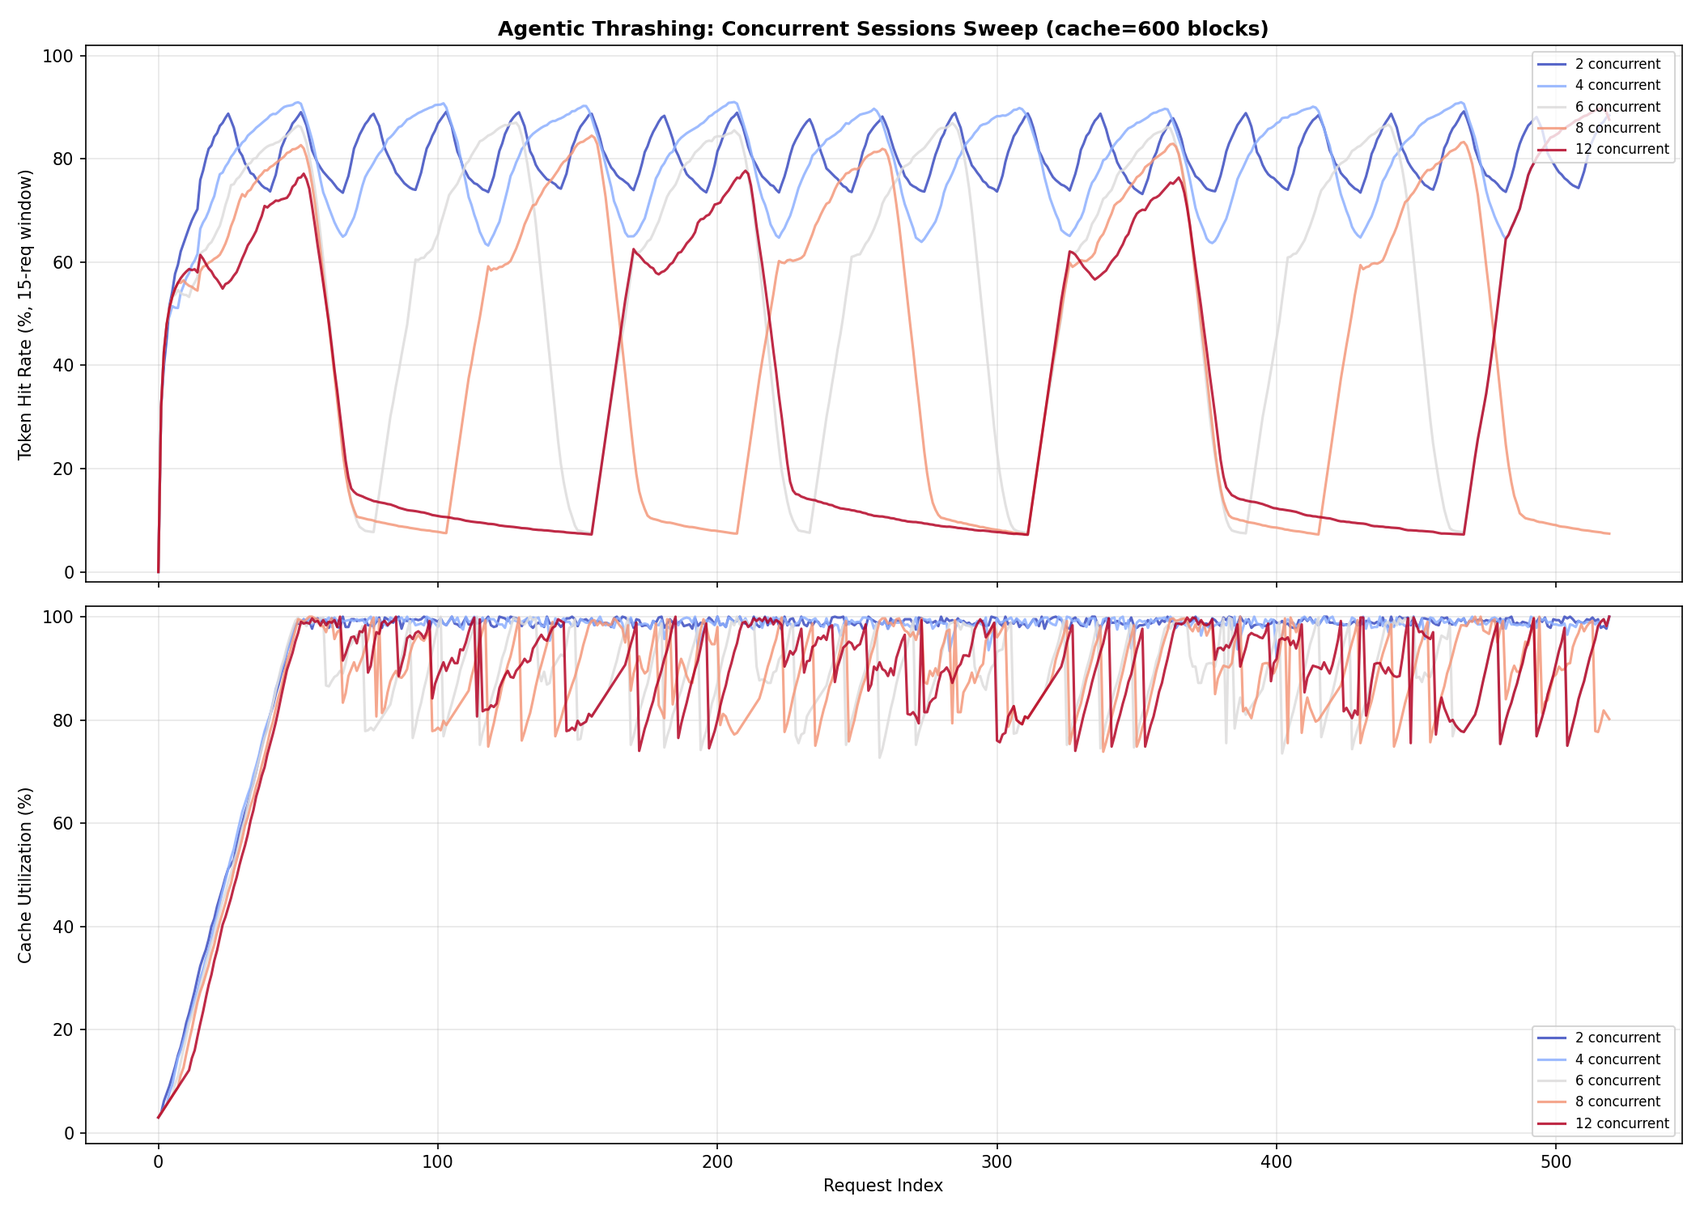
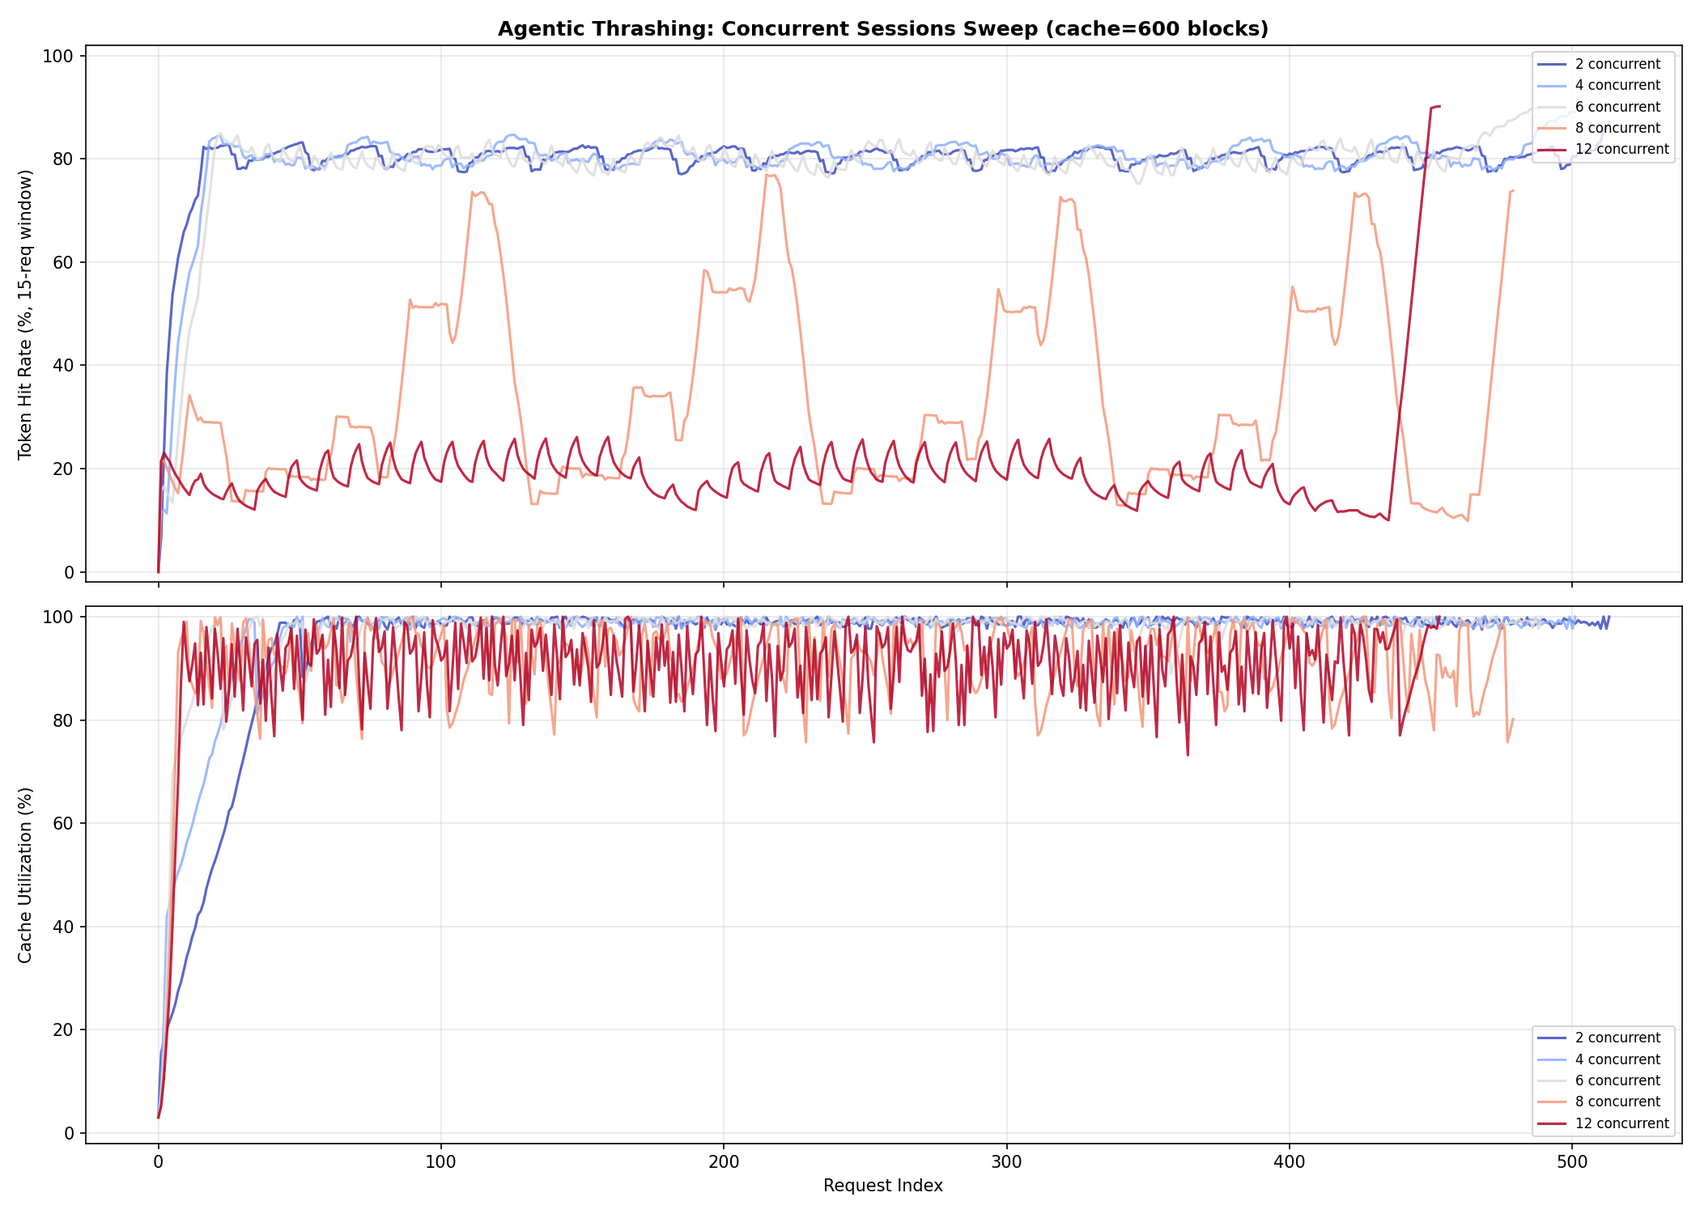
Stagger session arrivals for sustained thrashing (no sawtooth recovery)
- Initial sessions start at different steps (evenly spread across lifecycle)
- Completed sessions immediately replaced at step 0 (pool stays full)
- Working set estimate now computed from actual active session states
- Result: overcommitted configs thrash for entire simulation with no recovery
  - 12 conc / 400 blk: 18% hit rate across all 454 requests (was periodic)
  - 6 conc / 400 blk: 25% sustained (was sawtooth between 15-60%)
- Updated report with new findings (Finding 3: stagger makes it worse)

https://claude.ai/code/session_01XdsCWUEKJ49NkbzHr8UyLX

diff --git a/experiments/experiment_thrashing.py b/experiments/experiment_thrashing.py
@@ -111,14 +111,21 @@ def generate_agentic_requests(
     steps_per_session: int,
     concurrent_sessions: int,
     seed: int = SEED,
+    stagger: bool = True,
 ) -> List[Tuple[Request, Tuple[int, ...]]]:
     """Generate requests modeling interleaved agentic inference.
 
     Returns a list of (Request, token_ids) pairs in arrival order.
-    Concurrent sessions are interleaved round-robin: each "tick" advances
-    one step in each active session, modeling parallel agent execution.
 
-    When a session completes, a new one starts in its slot (if any remain).
+    If stagger=True (default), initial sessions start at different steps
+    to model a system that has been running for a while. This avoids the
+    unrealistic synchronized-generation artifact where all N sessions
+    start and end together, creating repeating sawtooth patterns instead
+    of sustained thrashing.
+
+    When a session completes, a new one immediately takes its slot at
+    step 0, so the pool stays full and sessions are always at mixed
+    stages of their lifecycle.
     """
     rng = random.Random(seed)
     system_tokens = _make_system_prompt_tokens()
@@ -143,16 +150,29 @@ def generate_agentic_requests(
     next_session_id = 0
     time_tick = 0.0
 
-    def _fill_active():
+    def _take_session() -> Optional[int]:
         nonlocal next_session_id
-        while len(active) < concurrent_sessions and next_session_id < num_sessions:
-            active.append((next_session_id, 0))
+        if next_session_id < num_sessions:
+            sid = next_session_id
             next_session_id += 1
+            return sid
+        return None
 
-    _fill_active()
+    # Initial fill: stagger starting steps so sessions are at different
+    # points in their lifecycle (models a system already under load)
+    for slot in range(concurrent_sessions):
+        sid = _take_session()
+        if sid is None:
+            break
+        if stagger:
+            # Spread initial sessions evenly across their lifecycle
+            initial_step = (slot * steps_per_session) // concurrent_sessions
+        else:
+            initial_step = 0
+        active.append((sid, initial_step))
 
     while active:
-        # Each tick: advance one step in each active session (round-robin)
+        # Each tick: advance one step in each active session
         next_active = []
         for sid, step in active:
             token_ids = session_contexts[sid][step]
@@ -164,16 +184,19 @@ def generate_agentic_requests(
                 num_decode_tokens=DECODE_TOKENS,
             )
             requests.append((req, token_ids))
-            time_tick += 0.05  # small time gap between requests in same tick
+            time_tick += 0.05
 
             next_step = step + 1
             if next_step <= steps_per_session:
                 next_active.append((sid, next_step))
-            # else: session is done, slot opens up
+            else:
+                # Session done — immediately replace with a new one at step 0
+                new_sid = _take_session()
+                if new_sid is not None:
+                    next_active.append((new_sid, 0))
 
         active = next_active
-        _fill_active()
-        time_tick += 0.5  # gap between ticks (models tool execution time)
+        time_tick += 0.5
 
     return requests
 
@@ -210,6 +233,7 @@ def simulate_thrashing(
     cache_max_blocks: int,
     num_sessions: int = NUM_SESSIONS,
     steps_per_session: int = STEPS_PER_SESSION,
+    stagger: bool = True,
 ) -> List[StepTrace]:
     """Run a single thrashing simulation."""
     requests = generate_agentic_requests(
@@ -217,33 +241,34 @@ def simulate_thrashing(
         steps_per_session=steps_per_session,
         concurrent_sessions=concurrent_sessions,
         seed=SEED,
+        stagger=stagger,
     )
 
     cache = PrefixCacheManager(max_blocks=cache_max_blocks, block_size=BLOCK_SIZE)
     traces = []
 
-    # Track which session each request belongs to
-    session_step_counter: Dict[int, int] = {}
-    session_assignment: List[Tuple[int, int]] = []  # (session_id, step_within)
-
-    # Reconstruct session/step from arrival order
-    active_slots: List[Optional[int]] = [None] * concurrent_sessions
-    next_sid = 0
-    slot_steps: Dict[int, int] = {}  # slot -> current step
-    req_idx = 0
-
     # Re-derive session assignments by replaying the interleaving logic
-    rng = random.Random(SEED)
     active2: List[Tuple[int, int]] = []
     next2 = 0
 
-    def _fill2():
+    def _take2() -> Optional[int]:
         nonlocal next2
-        while len(active2) < concurrent_sessions and next2 < num_sessions:
-            active2.append((next2, 0))
+        if next2 < num_sessions:
+            sid = next2
             next2 += 1
+            return sid
+        return None
 
-    _fill2()
+    for slot in range(concurrent_sessions):
+        sid = _take2()
+        if sid is None:
+            break
+        if stagger:
+            initial_step = (slot * steps_per_session) // concurrent_sessions
+        else:
+            initial_step = 0
+        active2.append((sid, initial_step))
+
     assignment_list = []
     while active2:
         next_active2 = []
@@ -251,8 +276,11 @@ def simulate_thrashing(
             assignment_list.append((sid, step))
             if step + 1 <= steps_per_session:
                 next_active2.append((sid, step + 1))
+            else:
+                new_sid = _take2()
+                if new_sid is not None:
+                    next_active2.append((new_sid, 0))
         active2 = next_active2
-        _fill2()
 
     for i, ((req, token_ids), (sid, step)) in enumerate(zip(requests, assignment_list)):
         evictions_before = cache.stats.total_evictions
@@ -271,9 +299,15 @@ def simulate_thrashing(
         stats = cache.stats
         hit_frac = cached_tokens / len(token_ids) if token_ids else 0.0
 
-        # Estimate working set: concurrent_sessions * avg context size at this point
-        avg_context = SYSTEM_PROMPT_TOKENS + TASK_PROMPT_TOKENS + step * TOKENS_PER_STEP
-        ws_blocks = concurrent_sessions * math.ceil(avg_context / BLOCK_SIZE)
+        # Estimate working set from actual active sessions at this point
+        # Look at nearby requests (same tick) to get all active session states
+        tick_start = max(0, i - (i % concurrent_sessions))
+        tick_end = min(len(assignment_list), tick_start + concurrent_sessions)
+        ws_blocks = 0
+        for j in range(tick_start, tick_end):
+            _, s = assignment_list[j]
+            ctx = SYSTEM_PROMPT_TOKENS + TASK_PROMPT_TOKENS + s * TOKENS_PER_STEP
+            ws_blocks += math.ceil(ctx / BLOCK_SIZE)
 
         traces.append(StepTrace(
             request_idx=i,
@@ -554,12 +588,12 @@ def main():
 
     # ── 1. Detailed single-config analysis ───────────────────────────────
     print(f"\n{'─'*70}")
-    print("  DETAILED ANALYSIS: 6 concurrent, 600-block cache")
+    print("  DETAILED ANALYSIS: 6 concurrent, 600-block cache (staggered)")
     print(f"{'─'*70}")
 
     traces_detail = simulate_thrashing(concurrent_sessions=6, cache_max_blocks=600)
     plot_thrashing_phases(traces_detail,
-                         label="6 concurrent sessions, 600-block cache",
+                         label="6 concurrent, 600 blocks (staggered arrivals)",
                          filename="thrashing_detail.png")
     print_thrashing_analysis(traces_detail, "6 concurrent, 600 blocks")
 
@@ -584,12 +618,12 @@ def main():
     # Detailed plots for extreme cases
     plot_thrashing_phases(
         all_results[(12, 400)],
-        label="12 concurrent, 400-block cache (severe thrashing)",
+        label="12 concurrent, 400 blocks (severe thrashing)",
         filename="thrashing_severe.png")
 
     plot_thrashing_phases(
         all_results[(2, 1200)],
-        label="2 concurrent, 1200-block cache (no thrashing)",
+        label="2 concurrent, 1200 blocks (no thrashing)",
         filename="thrashing_none.png")
 
     # ── 4. Full characterization ─────────────────────────────────────────

diff --git a/reports/THRASHING_REPORT.md b/reports/THRASHING_REPORT.md
@@ -20,7 +20,7 @@ Step 12: [...]                                                               →
 
 Each step shares the full prefix of all prior steps. With **N concurrent agent sessions**, the aggregate working set grows until it exceeds cache capacity. At that point, inserting new blocks for session A evicts blocks belonging to session B — but session B needs exactly those blocks on its very next step. This creates a destructive cycle of **evict → insert → evict** that we call **mid-phase thrashing**.
 
-The key insight is that **cache utilization stays high (~90%) while hit rate drops sharply** — the cache is full, but full of the wrong data. Standard utilization metrics mask the problem entirely.
+The key insight is that **cache utilization stays high (~85-98%) while hit rate drops sharply** — the cache is full, but full of the wrong data. Standard utilization metrics mask the problem entirely.
 
 ---
 
@@ -35,61 +35,60 @@ The key insight is that **cache utilization stays high (~90%) while hit rate dro
 | Tokens per step | ~200 (thought: 60, tool call: 30, tool result: ~110) | Models typical tool-use output |
 | Steps per session | 12 | Realistic agentic loop |
 | Max context at completion | 2700 tokens = 169 blocks | Upper bound per session |
-| Total sessions | 40 | Enough to observe all three phases |
+| Total sessions | 40 | Enough to observe sustained thrashing |
 | Block size | 16 tokens | |
 
-### Interleaving Model
+### Staggered Arrival Model
 
-Concurrent sessions are interleaved round-robin: each "tick" advances one step in every active session, modeling parallel agent execution on a shared GPU. When a session completes its 12 steps, a new session takes its slot.
+Sessions are **staggered**: the initial N concurrent sessions start at different points in their lifecycle (evenly spread across steps 0..12), modeling a system that has been running under load. When a session completes, a new one immediately takes its slot at step 0. This keeps the pool permanently full with sessions at mixed stages — no synchronized generations, no artificial recovery gaps.
+
+This is more realistic than batch-synchronized arrivals, which produce a repeating sawtooth pattern as entire generations start and finish together. In production, sessions arrive and depart continuously.
 
 ### Sweep Parameters
 
 - **Concurrent sessions:** 2, 4, 6, 8, 12
 - **Cache sizes:** 200, 400, 600, 800, 1200 blocks
 
-The critical ratio is **working set / cache capacity**. A single session at max length requires 169 blocks, so 8 concurrent sessions need ~1352 blocks. When the cache holds fewer blocks than the working set demands, thrashing begins.
+The critical ratio is **working set / cache capacity**. A single session at max length requires 169 blocks, so 8 concurrent sessions need ~1352 blocks. When the cache holds fewer blocks than the working set demands, thrashing begins — and with staggered arrivals, it persists for the entire simulation.
 
 ---
 
 ## 3. Results
 
-### 3.1 The Three Phases
+### 3.1 Sustained Thrashing
 
-The 6-concurrent / 600-block configuration cleanly demonstrates all three phases:
-
-![Thrashing Detail](../report_figures/kv_cache/thrashing_detail.png)
-
-| Phase | Request Range | Token Hit Rate | Cache Utilization | Evictions/req |
-|-------|:---:|:---:|:---:|:---:|
-| **Warmup** | 0–41 | 71.5% | 40% | 0 |
-| **Thrashing** | 42–77 | **36.2%** | **92%** | 92.5 |
-| **Settling** | 78–519 | 58.5% | 89% | 45.0 |
-
-**Warmup** (requests 0–41): The cache is filling up. Each session's first step is a cold miss, but subsequent steps reuse the growing prefix from prior steps. No evictions occur because the cache has room.
-
-**Thrashing** (requests 42–77): The aggregate working set of 6 sessions crosses the 600-block capacity. Every new step from one session evicts blocks belonging to another. Evictions spike to ~92 blocks/request while hit rate drops to 36%. The cache stays 92% full — it's churning, not empty.
-
-**Settling** (requests 78+): As sessions complete and leave the cache, eviction pressure decreases. Hit rate partially recovers but remains depressed because new sessions keep entering.
-
-### 3.2 Severity Scales with Overcommit Ratio
-
-Comparing the severe case (12 concurrent, 400 blocks) against no-thrashing (2 concurrent, 1200 blocks):
-
-**Severe thrashing (working set / cache = 5.1×):**
+With staggered arrivals, overcommitted configurations enter thrashing immediately and **never recover**. The 12-concurrent / 400-block case (5.1× overcommit) thrashes for all 454 requests:
 
 ![Severe Thrashing](../report_figures/kv_cache/thrashing_severe.png)
 
-**No thrashing (working set / cache = 0.3×):**
+| Config | Phase | Requests | Token Hit Rate | Cache Util | Evictions/req |
+|--------|-------|:---:|:---:|:---:|:---:|
+| 12 conc, 400 blk | **Thrashing** | 0–453 | **18.4%** | **83%** | 83.5 |
+| 8 conc, 400 blk | **Thrashing** | 0–479 | **19.0%** | **85%** | 81.7 |
+| 6 conc, 400 blk | **Thrashing** | 0–489 | **25.5%** | **87%** | 74.6 |
+| 12 conc, 800 blk | **Thrashing** | 0–453 | **24.0%** | **93%** | 75.8 |
+
+In every case: high utilization, high eviction rate, low hit rate — the full simulation is one sustained thrashing phase with no recovery.
+
+### 3.2 No Thrashing (Working Set Fits)
+
+When the working set fits in the cache, the pattern is completely different:
 
 ![No Thrashing](../report_figures/kv_cache/thrashing_none.png)
 
-Under severe thrashing, the token hit rate collapses to **18%** mid-phase with 91 blocks evicted per request — nearly every cache entry is replaced on every step. Without thrashing, the hit rate reaches **80%** with steady, low-volume evictions.
+| Config | Token Hit Rate | Cache Util | Evictions/req |
+|--------|:---:|:---:|:---:|
+| 2 conc, 400 blk | 80.4% | 96% | 11.3 |
+| 2 conc, 800 blk | 80.4% | 94% | 10.6 |
+| 4 conc, 800 blk | 80.3% | 95% | 10.8 |
+
+Hit rate is stable at ~80%, evictions are low and steady (just LRU turnover of completed sessions), and there are no phase transitions.
 
 ### 3.3 Thrashing Boundary Heatmap
 
 ![Thrashing Heatmap](../report_figures/kv_cache/thrashing_heatmap.png)
 
-The heatmap maps mid-phase token hit rate across all (concurrent sessions × cache size) configurations. The boundary is sharp: configurations below the diagonal (working set < cache) achieve 60–80% hit rates, while those above it (working set > cache) drop to 20–35%.
+The heatmap maps mid-phase token hit rate across all (concurrent sessions × cache size) configurations. The boundary is sharp and binary: configurations where the working set fits achieve ~80% hit rate, those that don't drop to 17-25%.
 
 | Concurrent Sessions | Working Set (blocks) | Min Cache to Avoid Thrashing |
 |:---:|:---:|:---:|
@@ -104,12 +103,19 @@ The heatmap maps mid-phase token hit rate across all (concurrent sessions × cac
 ![Concurrent Sweep](../report_figures/kv_cache/thrashing_concurrent_sweep.png)
 
 At a fixed 600-block cache:
-- **2 concurrent:** Smooth 80%+ hit rate, working set (338 blocks) fits comfortably
-- **4 concurrent:** Mild dips when context grows large (working set peaks at 676)
-- **6 concurrent:** Clear thrashing oscillations, 1014-block working set overflows the cache
-- **8–12 concurrent:** Sustained thrashing, hit rate frequently drops below 20%
+- **2-4 concurrent:** Stable 80%+ hit rate — working set fits comfortably
+- **8 concurrent:** Sustained thrashing at ~20-30%, with brief spikes when a session that just completed frees space before a new one fills it
+- **12 concurrent:** Pinned at ~15-20% for the entire run — sustained, unrecoverable thrashing
 
-All configurations show **near-100% cache utilization** in the bottom panel — confirming that utilization is a misleading health metric during thrashing.
+The bottom panel shows **near-100% cache utilization across all configurations** — confirming that utilization is completely uninformative about whether the cache is actually helping.
+
+### 3.5 The Detailed View
+
+The 6-concurrent / 600-block case (1.7× overcommit) shows the borderline behavior:
+
+![Thrashing Detail](../report_figures/kv_cache/thrashing_detail.png)
+
+After a brief warmup (staggered sessions loading their initial contexts), the system reaches steady state. With staggered arrivals, the working set varies continuously as sessions at different stages cycle through, creating persistent mild pressure rather than periodic crises.
 
 ---
 
@@ -117,30 +123,25 @@ All configurations show **near-100% cache utilization** in the bottom panel — 
 
 ### Finding 1: Cache utilization masks thrashing
 
-During the worst thrashing (12 concurrent, 400 blocks), cache utilization is **87%** while token hit rate is **18%**. A monitoring system that only tracks utilization would report the cache as healthy. The fix is to track **eviction rate** and **hit rate** jointly: high utilization + high eviction + low hit rate = thrashing.
+During severe thrashing (12 concurrent, 400 blocks), cache utilization is **83%** while token hit rate is **18%**. A monitoring system that only tracks utilization would report the cache as healthy. The diagnostic triad is: **high utilization + high eviction rate + low hit rate = thrashing**.
 
-### Finding 2: The thrashing boundary is sharp
+### Finding 2: The thrashing boundary is a cliff, not a slope
 
-There is no graceful degradation. When the working set exceeds cache capacity by even a small margin (1.3×), the hit rate drops by ~20 percentage points. At 2.5× overcommit, it drops by ~50 points. This is because LRU eviction is adversarial to round-robin interleaving: the session whose blocks were evicted is always the one that needs them next.
+There is no graceful degradation. Hit rate is either ~80% (working set fits) or ~20% (it doesn't). The transition is nearly binary — a 30% increase in concurrent sessions can cause a 60-point drop in hit rate. This is because LRU eviction under round-robin access is adversarial: the least-recently-used entry is always the one that will be needed next.
 
-### Finding 3: Agentic workloads are uniquely vulnerable
+### Finding 3: Staggered arrivals make thrashing worse, not better
 
-Unlike multi-turn chat (where contexts are short and few users share the same conversation), agentic workloads have:
+With synchronized generations, thrashing is periodic — sessions start together, thrash during the middle steps, then all complete and the cache recovers before the next batch. With realistic staggered arrivals, there is **no recovery window**. The pool is always full of sessions at different stages, so the working set never drops below the thrashing threshold. The system enters thrashing and stays there permanently.
+
+### Finding 4: Agentic workloads are uniquely vulnerable
+
+Unlike multi-turn chat (short contexts, few concurrent users sharing a conversation), agentic workloads have:
 - **Long, growing contexts** (2000+ tokens after 10 steps)
-- **High temporal correlation** (each step depends on the previous)
+- **High temporal correlation** (each step depends on the previous — no reordering possible)
 - **Multiple concurrent sessions** competing for the same cache
 - **No natural sharing** between sessions (each task is unique)
 
 This combination creates the worst case for LRU caching: every entry is needed exactly once more, but evicted just before that access.
-
-### Finding 4: The sawtooth pattern reveals batch structure
-
-The thrashing detail plot shows a distinctive **sawtooth** in both hit rate and I/O volume. Each tooth corresponds to one "generation" of concurrent sessions:
-- Rising edge: sessions reuse their own growing prefix (hits)
-- Falling edge: contexts grow past cache capacity (evictions begin)
-- Valley: peak thrashing as all sessions compete simultaneously
-
-This sawtooth is a diagnostic signature — if you see it in production telemetry, the system is thrashing.
 
 ---
 
@@ -155,7 +156,7 @@ This sawtooth is a diagnostic signature — if you see it in production telemetr
 | **Context compression** | Reduce per-step token growth | Lossy; may degrade agent accuracy |
 | **Priority scheduling** | Complete one session before starting the next | Eliminates inter-session thrashing but serializes execution |
 
-The most actionable finding: for agentic workloads, **cache capacity should be provisioned as `N × max_context_length / block_size`** where N is the target concurrent session count. Under-provisioning by even 30% triggers sharp performance degradation.
+The most actionable finding: for agentic workloads, **cache capacity should be provisioned as `N × max_context_length / block_size`** where N is the target concurrent session count. Under-provisioning by even 30% triggers sharp, sustained performance degradation with no self-recovery.
 
 ---
 
